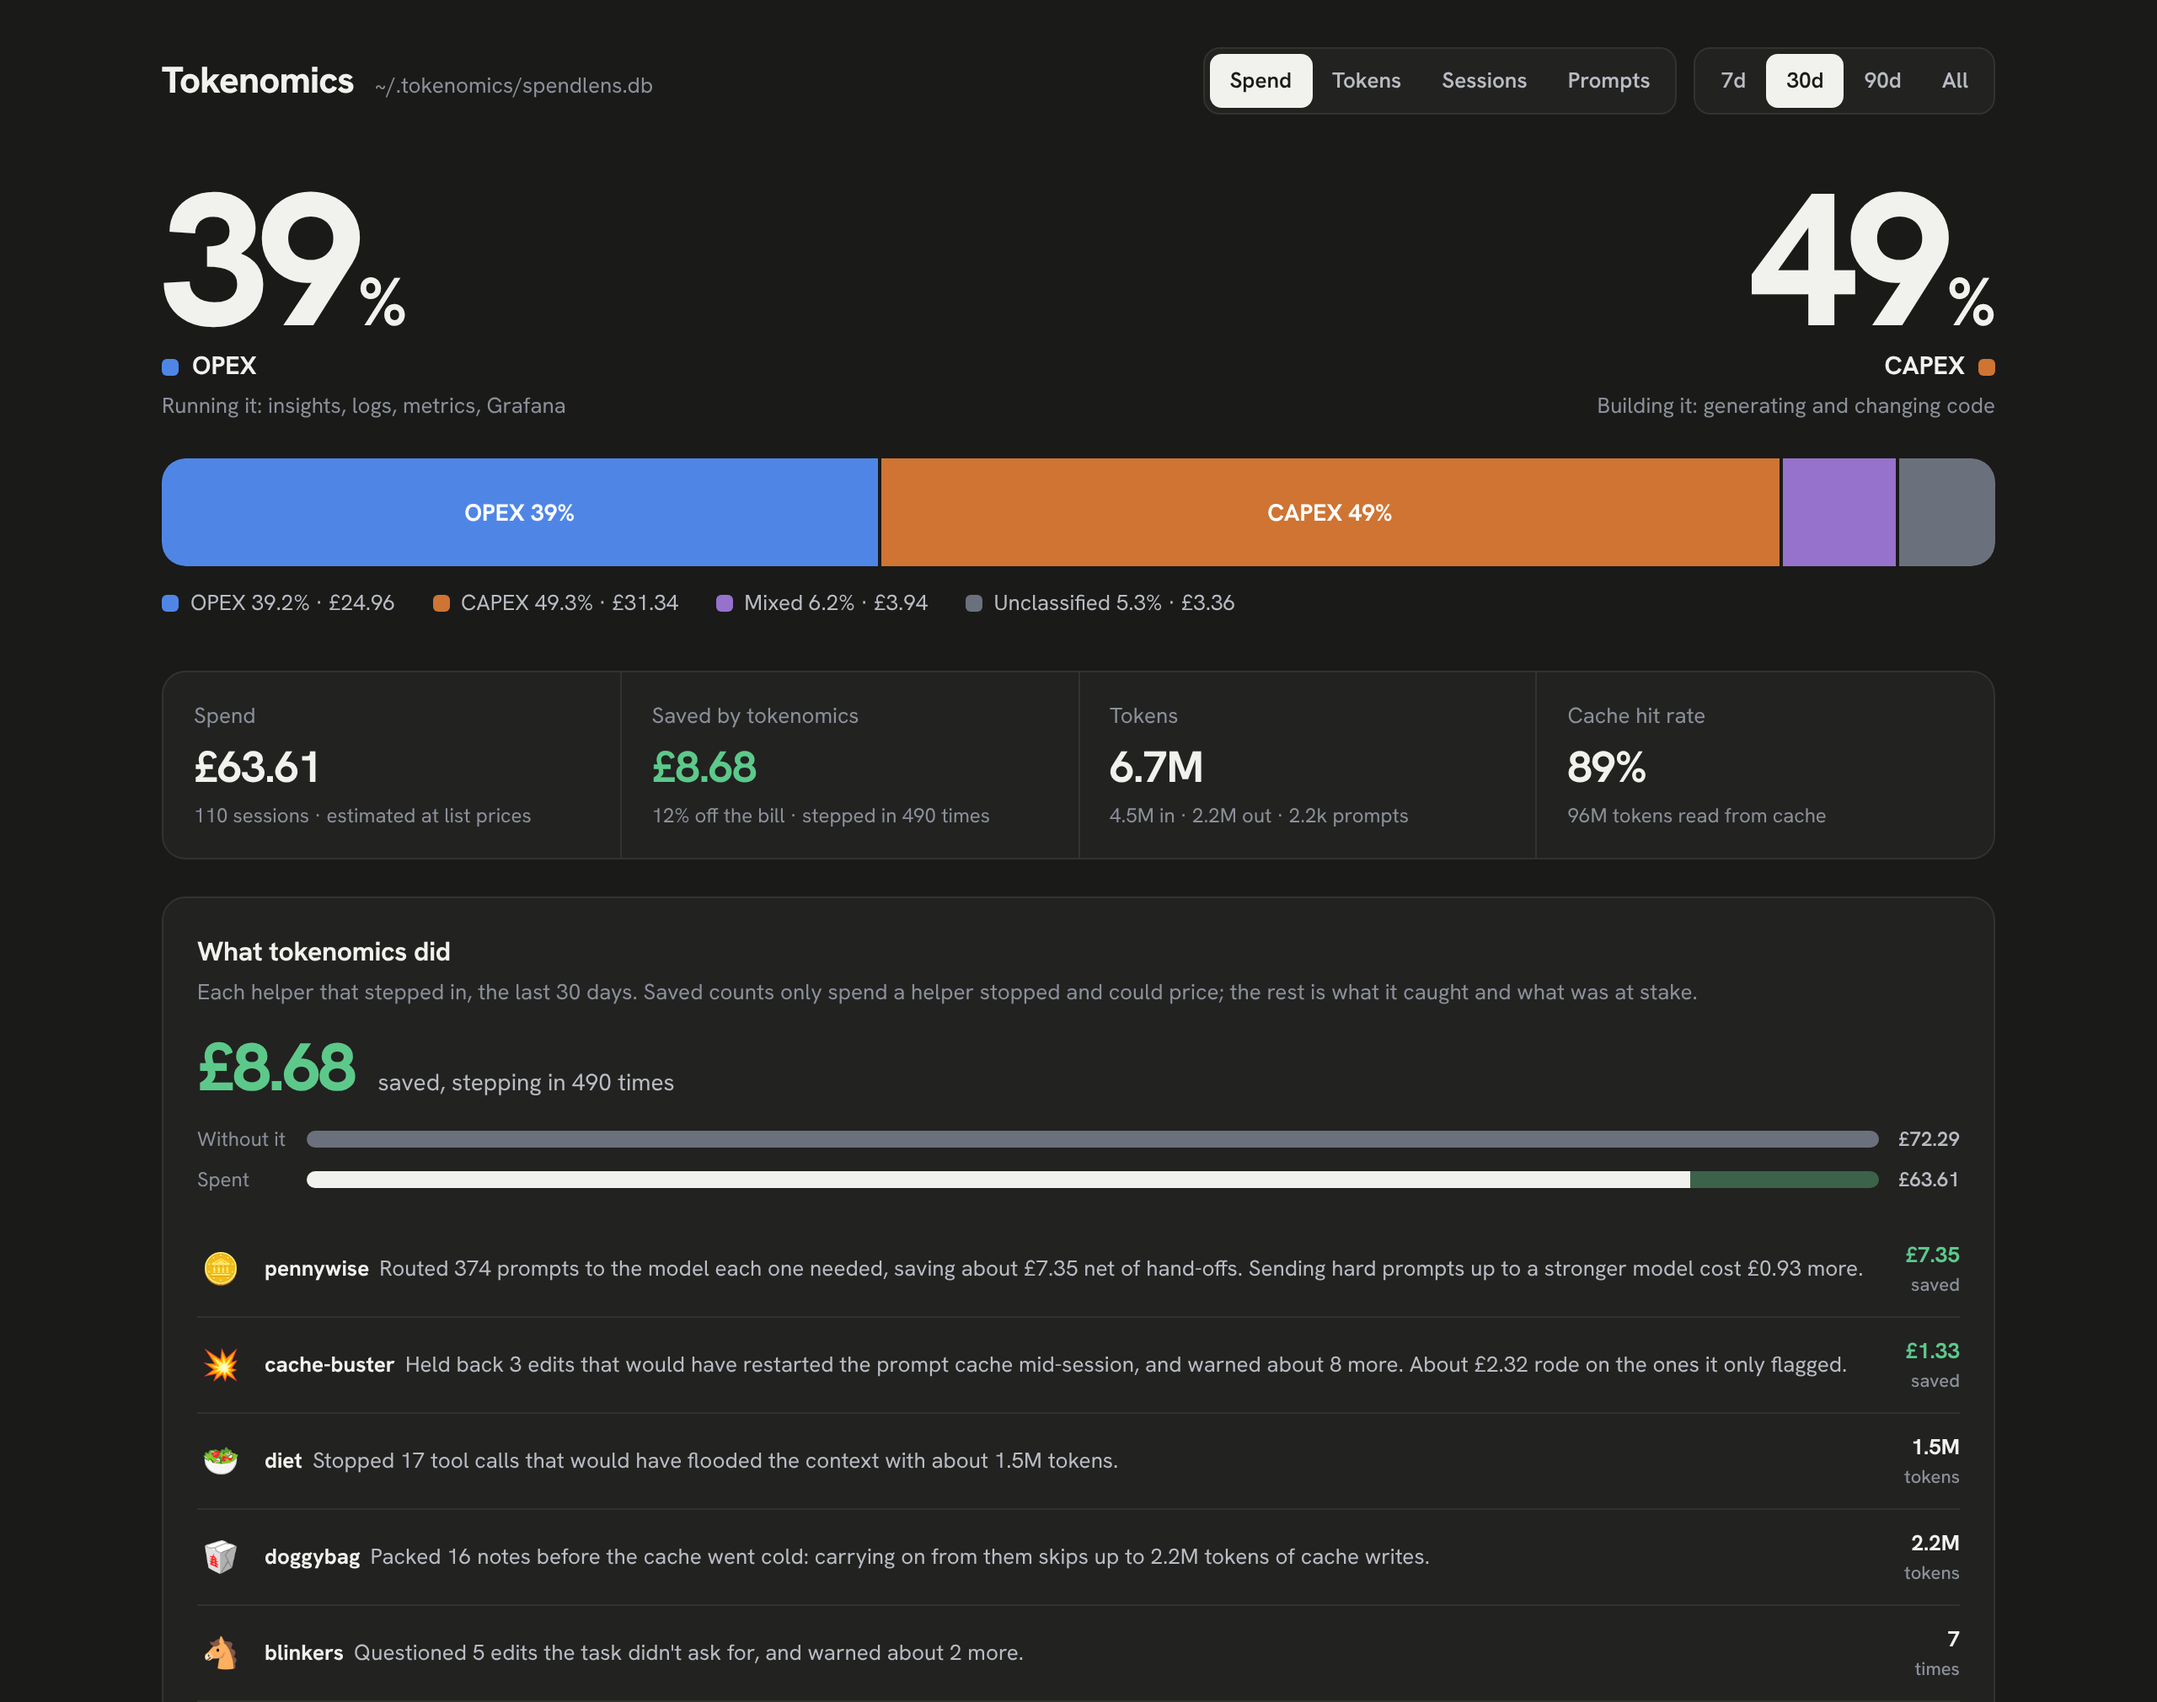
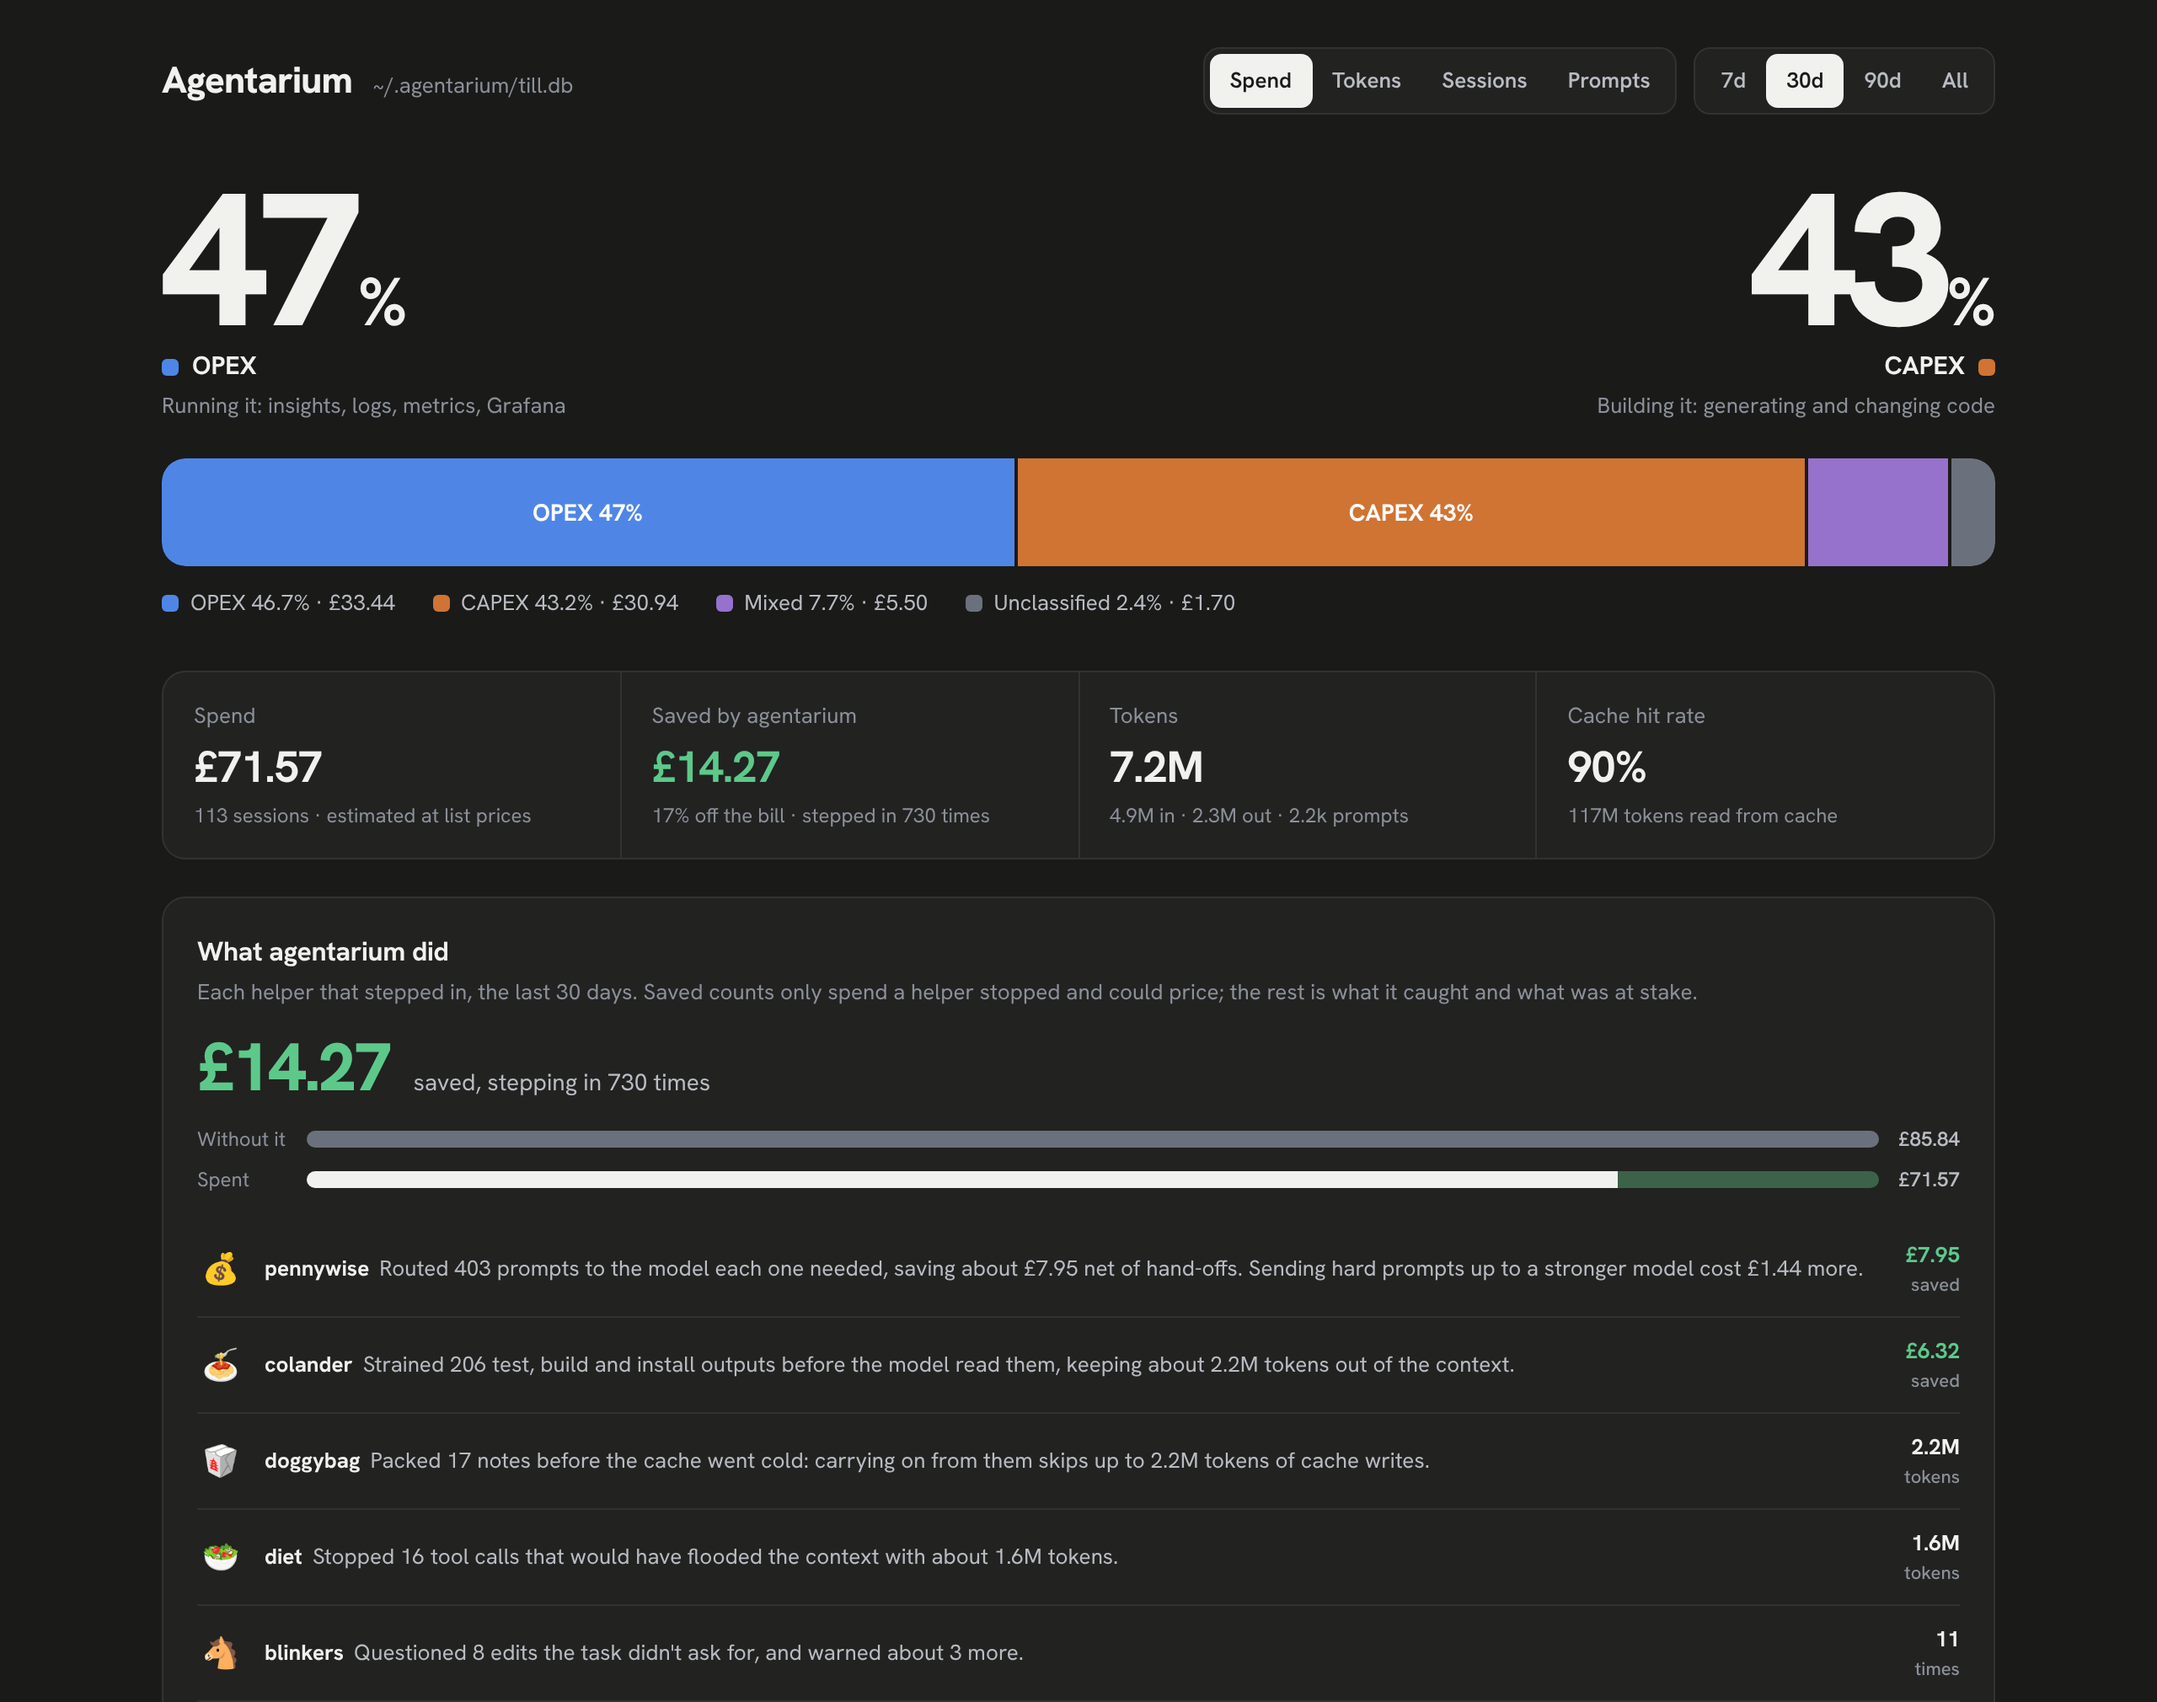
Lead with agentarium's own tagline, and redraw the branded images
- The banner and the README's headline now say what agentarium is, "the
  AI agent utility ecosystem", with "make every AI token earn its keep"
  as the line under it. The banner's accent bar moves down 8px: the g in
  agentarium descends where tokenomics had nothing.
- The dashboard screenshots are taken again from the real page with
  --demo data (light and dark, 1280x1010 at 2x as before): the Agentarium
  title, "What agentarium did", the money-bag pennywise and the colander
  row that came after the last ones were taken.
- The dashboard shows the database path with your home folder as ~
  (`~/.agentarium/till.db`), so a screenshot of it doesn't show your
  username. The old images had that path typed in by hand.

Claude-Session: https://claude.ai/code/session_01ByUiVasCgPkY74fBTNgMud

diff --git a/scripts/dashboard.ts b/scripts/dashboard.ts
@@ -27,7 +27,7 @@ import { closeSync, existsSync, mkdirSync, mkdtempSync, openSync, readFileSync, 
 import { createServer } from 'node:http'
 import { connect as netConnect } from 'node:net'
 import { homedir, tmpdir } from 'node:os'
-import { join } from 'node:path'
+import { join, sep } from 'node:path'
 import { fileURLToPath } from 'node:url'
 
 import { defaultDbPath } from '../agentarium/config.ts'
@@ -69,8 +69,13 @@ function shiftDays(d: Date, n: number): Date {
   return x
 }
 
+/** A path under the home folder as ~/...: shorter, and a screenshot of the page doesn't show your username. */
+export function tilde(path: string, home = homedir()): string {
+  return path === home || path.startsWith(home + sep) ? `~${path.slice(home.length)}` : path
+}
+
 export function build(dbPath: string, days: number): Obj {
-  if (!(existsSync(dbPath) && statSync(dbPath).isFile())) return { empty: true, db_path: dbPath, reason: 'no-database' }
+  if (!(existsSync(dbPath) && statSync(dbPath).isFile())) return { empty: true, db_path: tilde(dbPath), reason: 'no-database' }
   const cutoff = days ? today(shiftDays(new Date(), -(days - 1))) : null
   const since = cutoff ?? '0000-00-00'
   const got = withDb(dbPath, (db) => {
@@ -84,7 +89,7 @@ export function build(dbPath: string, days: number): Obj {
       ? db.all('SELECT session_id, day, SUM(usd) AS usd FROM cost_events WHERE day >= ? GROUP BY session_id, day', since) : []
     return { rows, costs, activity: PolicyEngine.activity(db, since) }
   }, { readOnly: true })                               // the server is long-running: never leak handles
-  if (got === null) return { empty: true, db_path: dbPath, reason: 'no-table' }
+  if (got === null) return { empty: true, db_path: tilde(dbPath), reason: 'no-table' }
   const { costs, activity } = got
   const bySid = new Map(got.rows.map((r) => [r.session_id, r]))
   const rows = got.rows.filter((r) => !cutoff || String(r.first_seen || '').slice(0, 10) >= cutoff)
@@ -155,7 +160,7 @@ export function build(dbPath: string, days: number): Obj {
   const [code, symbol, rate] = currency.current()
   return {
     empty: !rows.length && !spendUsd && !activity.stepped_in, reason: rows.length || spendUsd || activity.stepped_in ? null : 'no-rows',
-    db_path: dbPath, days,
+    db_path: tilde(dbPath), days,
     generated: new Date().toISOString(),
     money: { code, symbol, rate },
     spend_usd: spendUsd,

diff --git a/tests/scripts.test.ts b/tests/scripts.test.ts
@@ -68,6 +68,13 @@ describe('dashboard', () => {
     assert.ok(Object.values(data.totals).reduce((a: number, v: any) => a + v.sessions, 0) > 0)
   })
 
+  test('a path under the home folder is shown as ~/..., anything else as it is', () => {
+    const home = join(sep, 'home', 'ada')
+    assert.equal(dashboard.tilde(join(home, '.agentarium', 'till.db'), home), join('~', '.agentarium', 'till.db'))
+    assert.equal(dashboard.tilde(join(sep, 'home', 'adam', 'till.db'), home), join(sep, 'home', 'adam', 'till.db'))   // not a prefix match
+    assert.equal(dashboard.tilde(join(sep, 'srv', 'till.db'), home), join(sep, 'srv', 'till.db'))
+  })
+
   test('the demo shows spend and what agentarium did', (c) => {
     const t = useTemp(c)
     dashboard.seedDemo(t.db)

diff --git a/README.md b/README.md
@@ -1,5 +1,5 @@
 <p align="center">
-  <img src="docs/assets/banner.svg" alt="agentarium: see where your AI tokens go, and stop paying for the ones you don't need" width="100%">
+  <img src="docs/assets/banner.svg" alt="agentarium, the AI agent utility ecosystem: make every AI token earn its keep" width="100%">
 </p>
 
 <p align="center">
@@ -14,8 +14,8 @@
   <a href="LICENSE"><img src="https://img.shields.io/badge/license-Apache_2.0-blue" alt="Apache 2.0 licence"></a>
 </p>
 
-<h2 align="center">Make every AI token earn its keep.</h2>
-<h3 align="center">Stop the spend before it happens.<br>Automated prevention for the whole AI coding session, in Claude Code and GitHub Copilot CLI: the right model for every prompt, a forecast of what's coming, and the one change that saves most, before you pay for it.</h3>
+<h2 align="center">The AI agent utility ecosystem.</h2>
+<h3 align="center">Make every AI token earn its keep: stop the spend before it happens.<br>Automated prevention for the whole AI coding session, in Claude Code and GitHub Copilot CLI: the right model for every prompt, a forecast of what's coming, and the one change that saves most, before you pay for it.</h3>
 
 <p align="center">
   <a href="#-install"><b>Install</b></a> ·

diff --git a/docs/reference.md b/docs/reference.md
@@ -1265,7 +1265,7 @@ The band's numbers, and what to do about them, in a **pane beside the chat** (`h
 
 ## dashboard
 
-A local web UI over the till database: a headline **% OPEX vs % CAPEX** split bar, what you spent and what agentarium saved, **what agentarium did**, daily trend, per-project split, skills used and recent sessions. Switch the measure between spend, tokens, sessions and prompts, and the range between 7d, 30d, 90d and all time. Light and dark mode follow your system.
+A local web UI over the till database: a headline **% OPEX vs % CAPEX** split bar, what you spent and what agentarium saved, **what agentarium did**, daily trend, per-project split, skills used and recent sessions. Switch the measure between spend, tokens, sessions and prompts, and the range between 7d, 30d, 90d and all time. Light and dark mode follow your system. The header names the database with your home folder as `~` (`~/.agentarium/till.db`), so a screenshot doesn't show your username.
 
 <picture>
   <source media="(prefers-color-scheme: dark)" srcset="assets/dashboard-dark.png">
